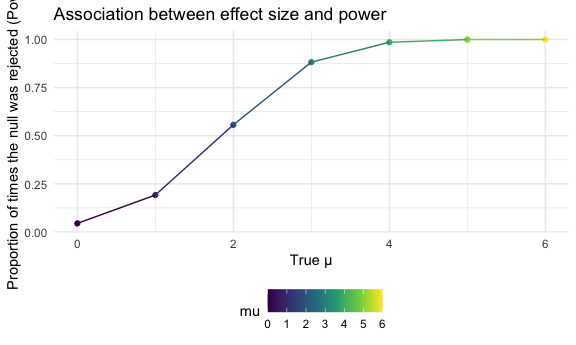
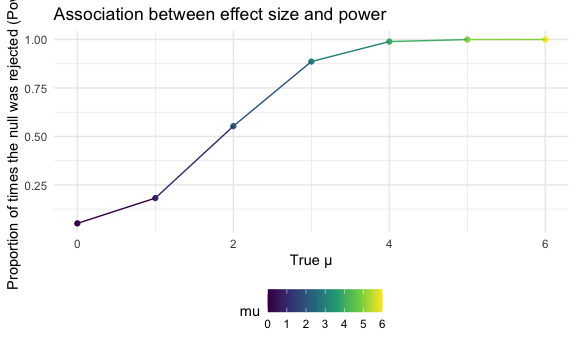
adjust setseed

diff --git a/p8105_hw5_jh4324.md b/p8105_hw5_jh4324.md
@@ -195,7 +195,7 @@ sample_df(0)
 Repeat the above
 
 ``` r
-set.seed(10000)
+set.seed(1000)
 mu_df = 
   tibble(
     mu = c(0,1,2,3,4,5,6)
@@ -208,7 +208,7 @@ mu_df =
 Summarize
 
 ``` r
-set.seed(10000)
+set.seed(1000)
 mureject_df = 
   mu_df %>% 
   unnest(output_lists) %>% 
